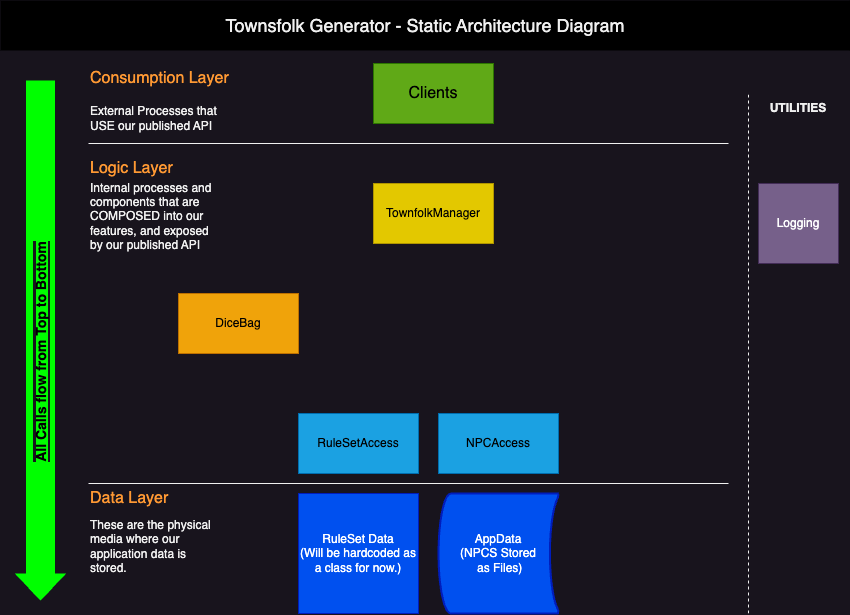
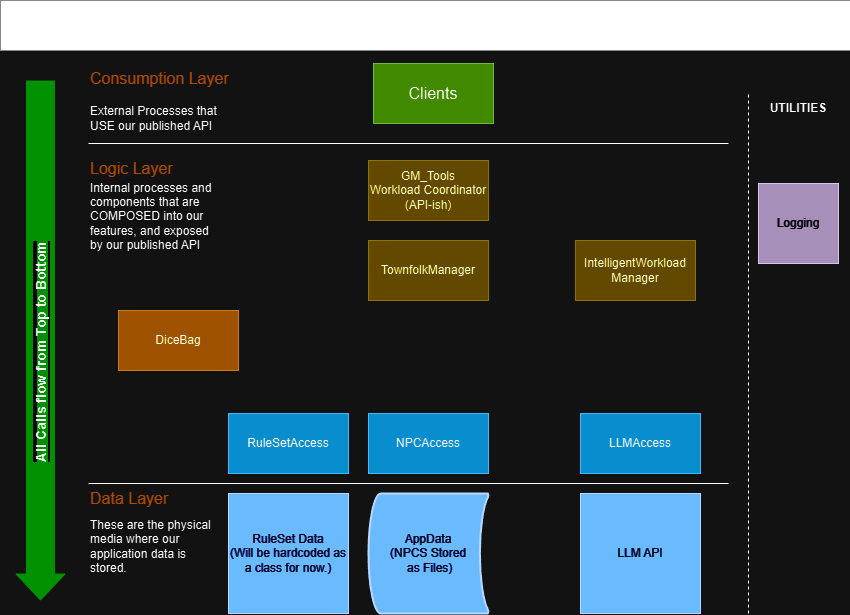
Adds new projects to help introduce LLM capabilities to the NPC Generator. #42

diff --git a/src/API/GameTools.API.WorkloadProvider/CharacterWorkloads.cs b/src/API/GameTools.API.WorkloadProvider/CharacterWorkloads.cs
@@ -1,0 +1,40 @@
+using GameTools.TownsfolkManager.Contracts;
+using ThatDeveloperDad.Framework.Serialization;
+
+namespace GameTools.API.WorkloadProvider
+{
+    public class CharacterWorkloads : ICharacterWorkloads
+    {
+        private readonly ITownsfolkManager _npcManager;
+
+        public CharacterWorkloads(ITownsfolkManager npcManager)
+        {
+            _npcManager = npcManager;
+        }
+
+        public string GenerateNPC(bool includeAI = false)
+        {
+            string npcJson = string.Empty;
+            var npc = _npcManager.GenerateTownsperson();
+
+            npcJson = Serialize(npc);
+
+            return npcJson;
+        }
+
+        /// <summary>
+        /// Serializes an object to JSON
+        /// Uses the JsonFunctions to strip all properties
+        /// from a complex object that have not been populated.
+        /// </summary>
+        /// <typeparam name="T">The Type of object</typeparam>
+        /// <param name="instance">An Instance of T</param>
+        /// <returns></returns>
+        private string Serialize<T>(T instance) where T : class
+        {
+            string json = JsonUtilities.GetCleanJson(instance);
+
+            return json;
+        }
+    }
+}

diff --git a/src/ConsoleClient/Program.cs b/src/ConsoleClient/Program.cs
@@ -5,7 +5,8 @@ using GameTools.RulesetAccess;
 using GameTools.Ruleset.DnD5eSRD;
 using GameTools.TownsfolkManager;
 using GameTools.TownsfolkManager.Contracts;
-using Microsoft.VisualBasic;
+using GameTools.API.WorkloadProvider;
+using System;
 
 // See https://aka.ms/new-console-template for more information
 namespace ConsoleClient
@@ -17,9 +18,12 @@ namespace ConsoleClient
 
             var services = CreateServices();
 
-            var app = new GeneratorConsole(services.GetRequiredService<ITownsfolkManager>());
-            
-            app.TestNPCGen();
+            //var app = new GeneratorConsole(services.GetRequiredService<ITownsfolkManager>());
+
+            ICharacterWorkloads app = new CharacterWorkloads(services.GetRequiredService<ITownsfolkManager>()); 
+
+            string npcJson =  app.GenerateNPC();
+            Console.WriteLine(npcJson);
         }
 
         static ServiceProvider CreateServices()

diff --git a/src/API/GameTools.API.WorkloadProvider/ICharacterWorkloads.cs b/src/API/GameTools.API.WorkloadProvider/ICharacterWorkloads.cs
@@ -1,0 +1,13 @@
+using System;
+using System.Collections.Generic;
+using System.Linq;
+using System.Text;
+using System.Threading.Tasks;
+
+namespace GameTools.API.WorkloadProvider
+{
+    public interface ICharacterWorkloads
+    {
+        string GenerateNPC(bool includeAI = false);
+    }
+}

diff --git a/src/ThatDeveloperDad.AIWorkloadManager/Class1.cs b/src/ThatDeveloperDad.AIWorkloadManager/Class1.cs
@@ -1,0 +1,7 @@
+namespace ThatDeveloperDad.AIWorkloadManager
+{
+    public class Class1
+    {
+
+    }
+}
